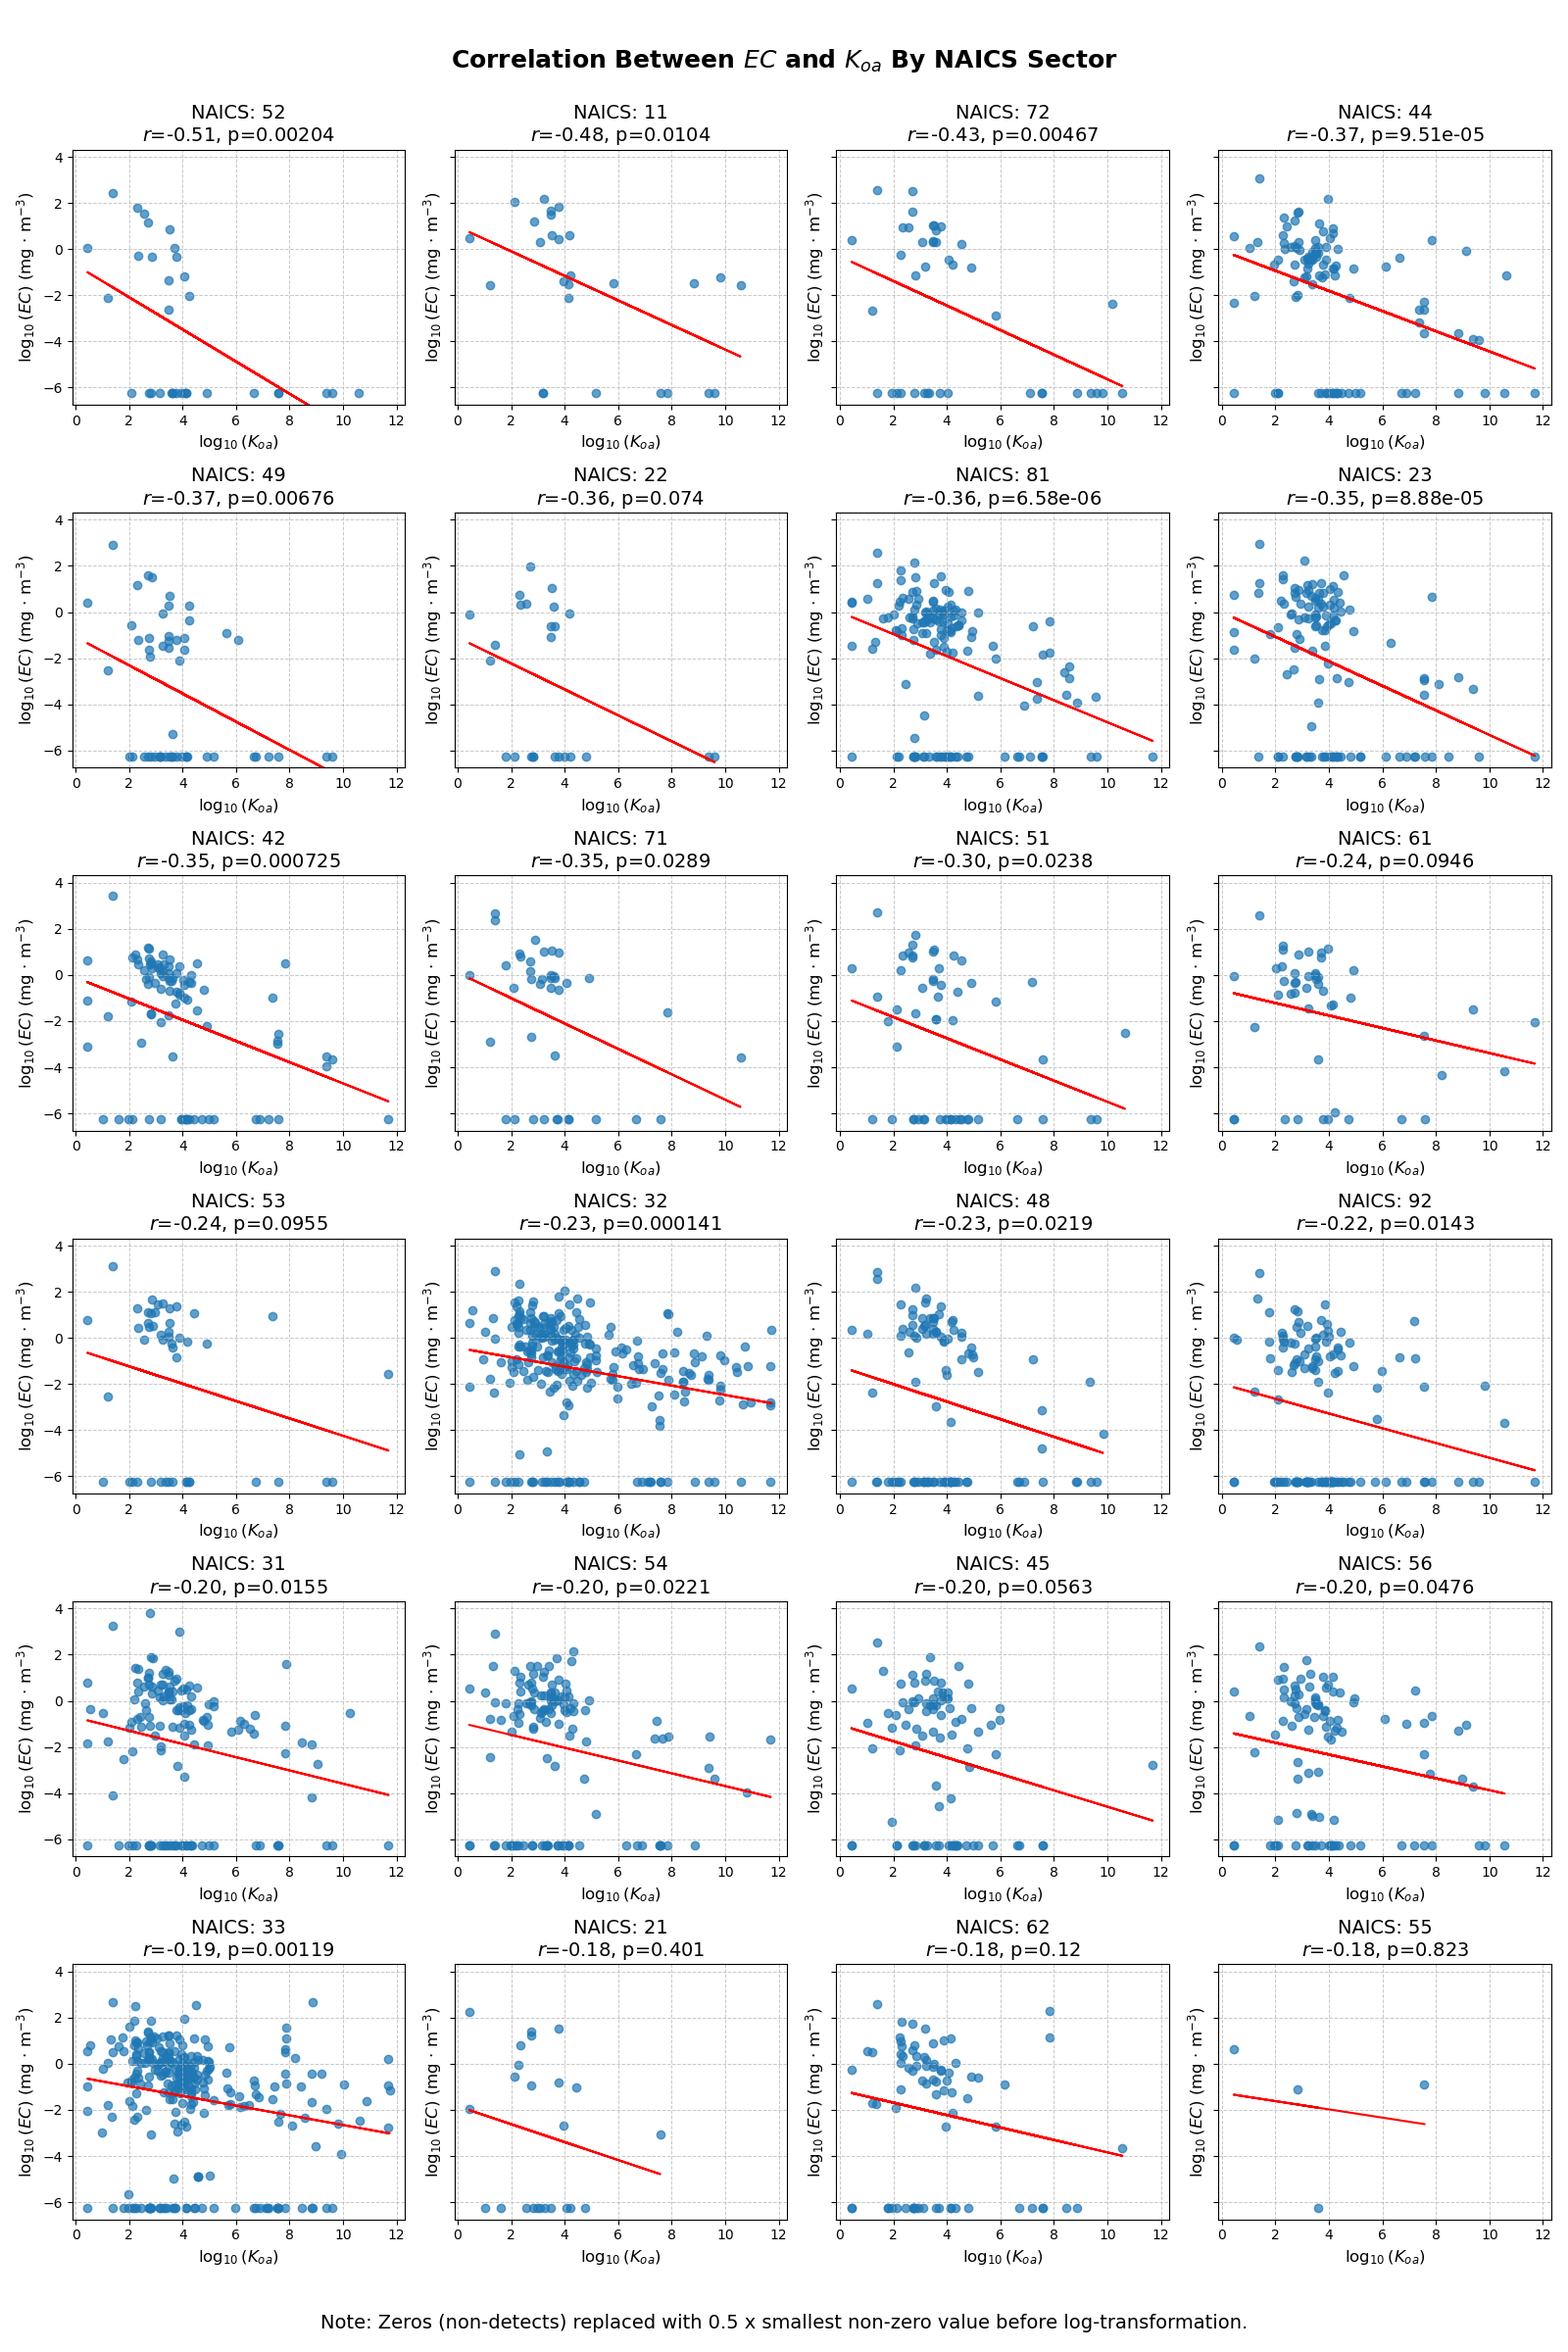
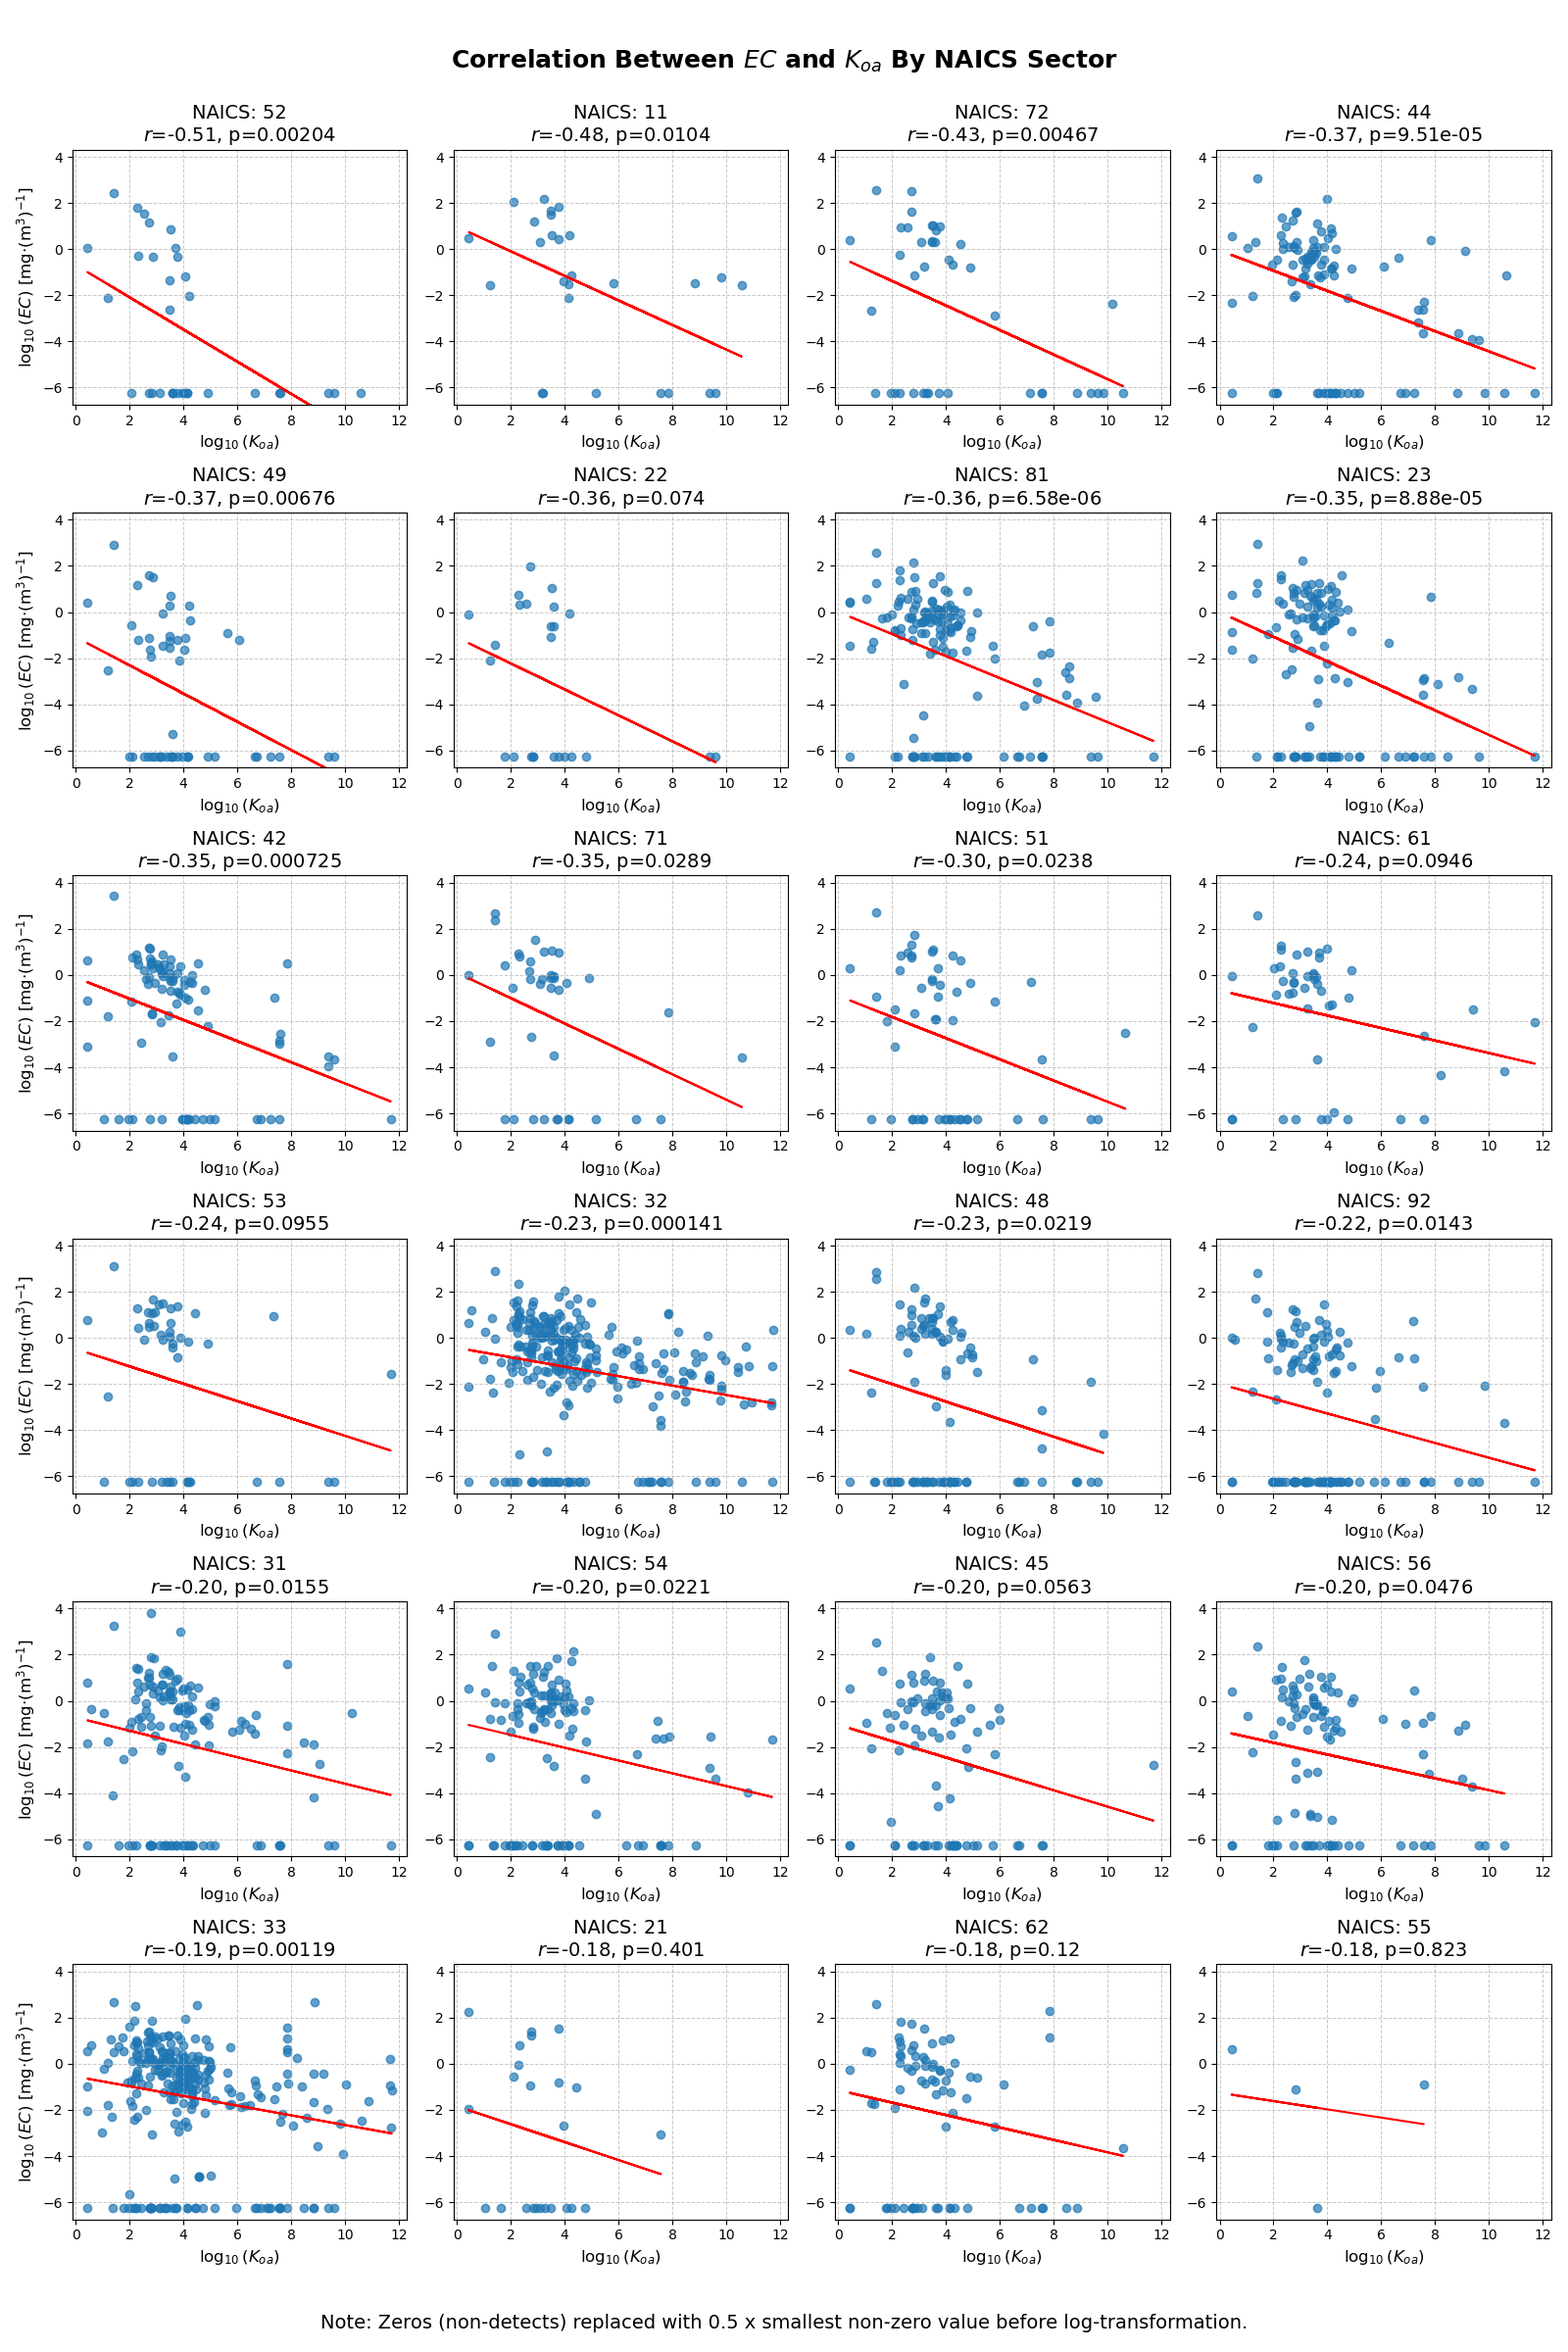
Refactor correlation_by_naics: Set ylabel only first column

diff --git a/plot.py b/plot.py
@@ -411,24 +411,30 @@ def correlation_by_naics(
     fig, axes = plt.subplots(
         n_rows, 
         n_cols, 
-        figsize=(4 * n_cols, 4 * n_rows), 
-        sharey=True
+        figsize=(4 * n_cols, 4 * n_rows)
     )
     axes = axes.flatten() if n_rows > 1 else [axes]
 
     xlim, ylim = calculate_global_limits(merged)
 
     for i, naics in enumerate(sorted_naics):
+
         ax = axes[i]
+
         subset = merged.loc[merged['naics_id'] == naics]
+
         scatter_with_regression(ax, subset)
+
+        # Set ylabel only for the first column
+        current_ylabel = ylabel if i % n_cols == 0 else ''
+
         format_axes(
             ax, 
             corr_df, 
             'naics_id',
             naics, 
             xlabel, 
-            ylabel, 
+            current_ylabel, 
             xlim, 
             ylim,
             title_prefix=f'NAICS: {naics}'
